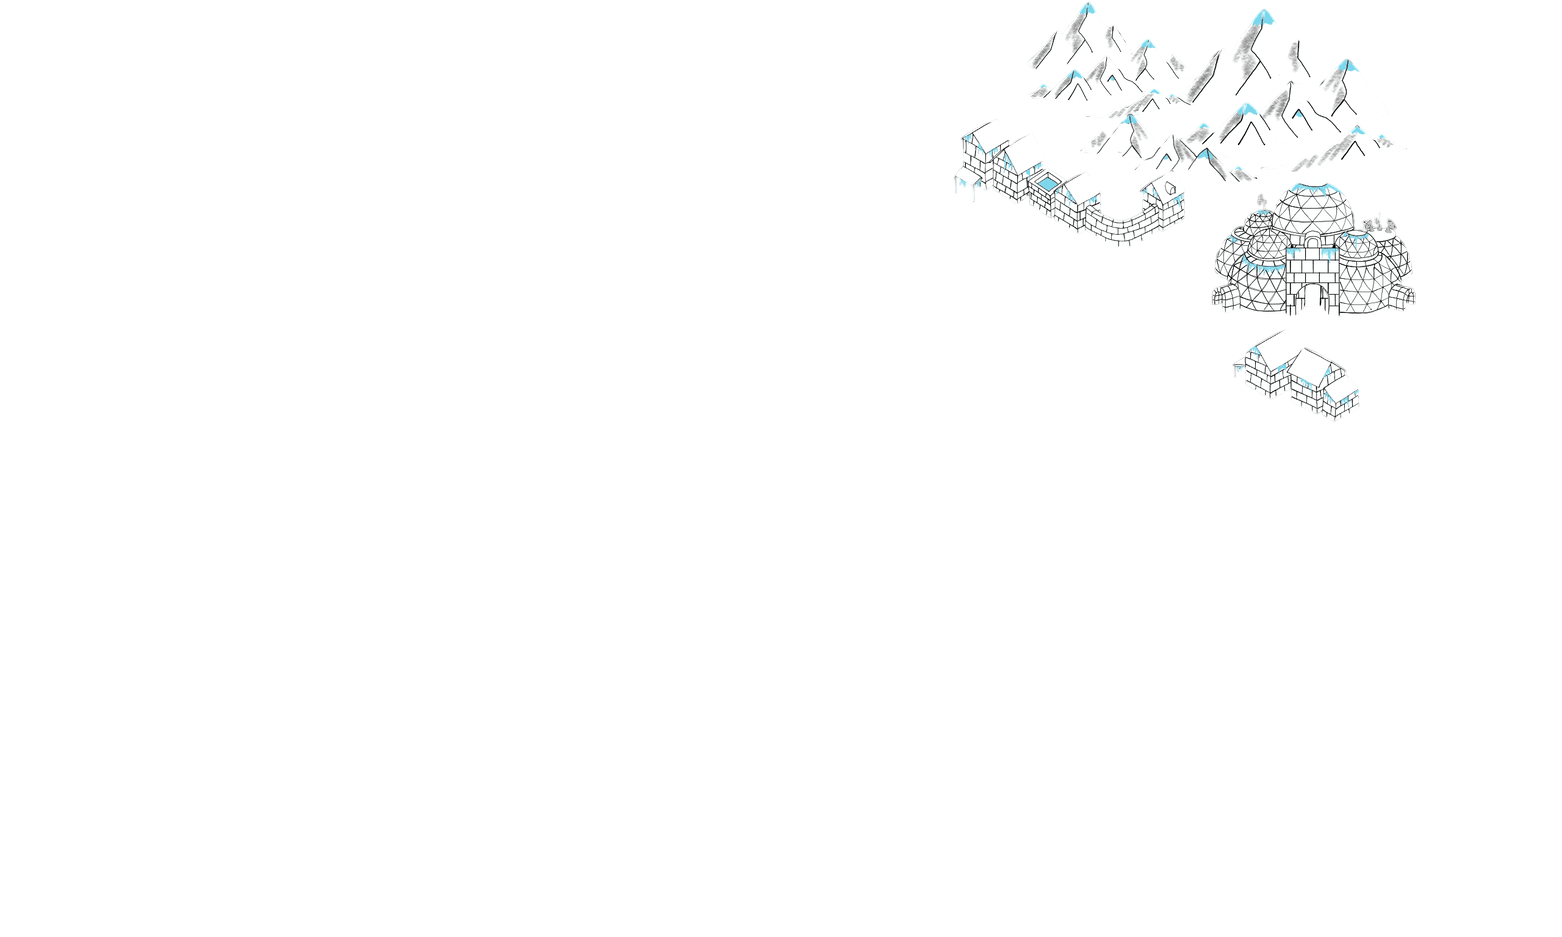
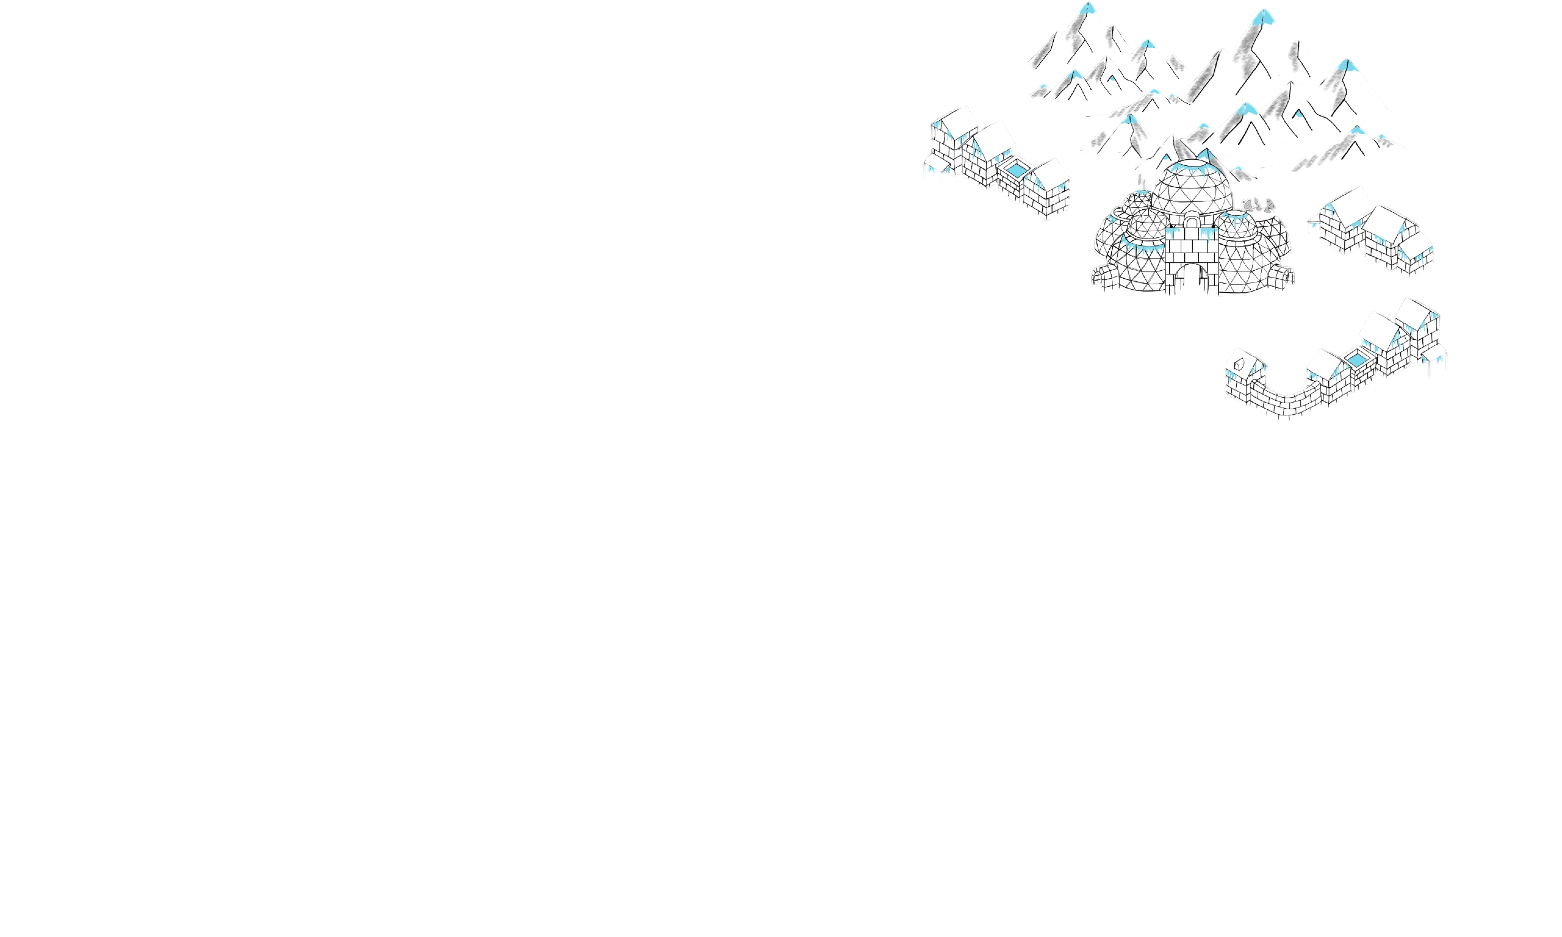
another png fix

Changed region(s): [[0.5839, 0.1238, 0.9219, 0.4642]]

diff --git a/src/map/map.js b/src/map/map.js
@@ -58,7 +58,7 @@ export default class Map {
             4000, 21, 2,
             ["HOUSE", "CINEMA", "PARK", "HOTEL", "COMERCIAL", "FACTORY", "HOSPITAL"], ["FACTORY"], 4,
             false, "FÁBRICA MUNDO JUPI",
-            'districtSomosagua', 'districtSomosaguaSpecial', -75, -17
+            'districtSomosagua', 'districtSomosaguaSpecial', -18, -17
         );
         const districtArray = [
             BORRASCAL,